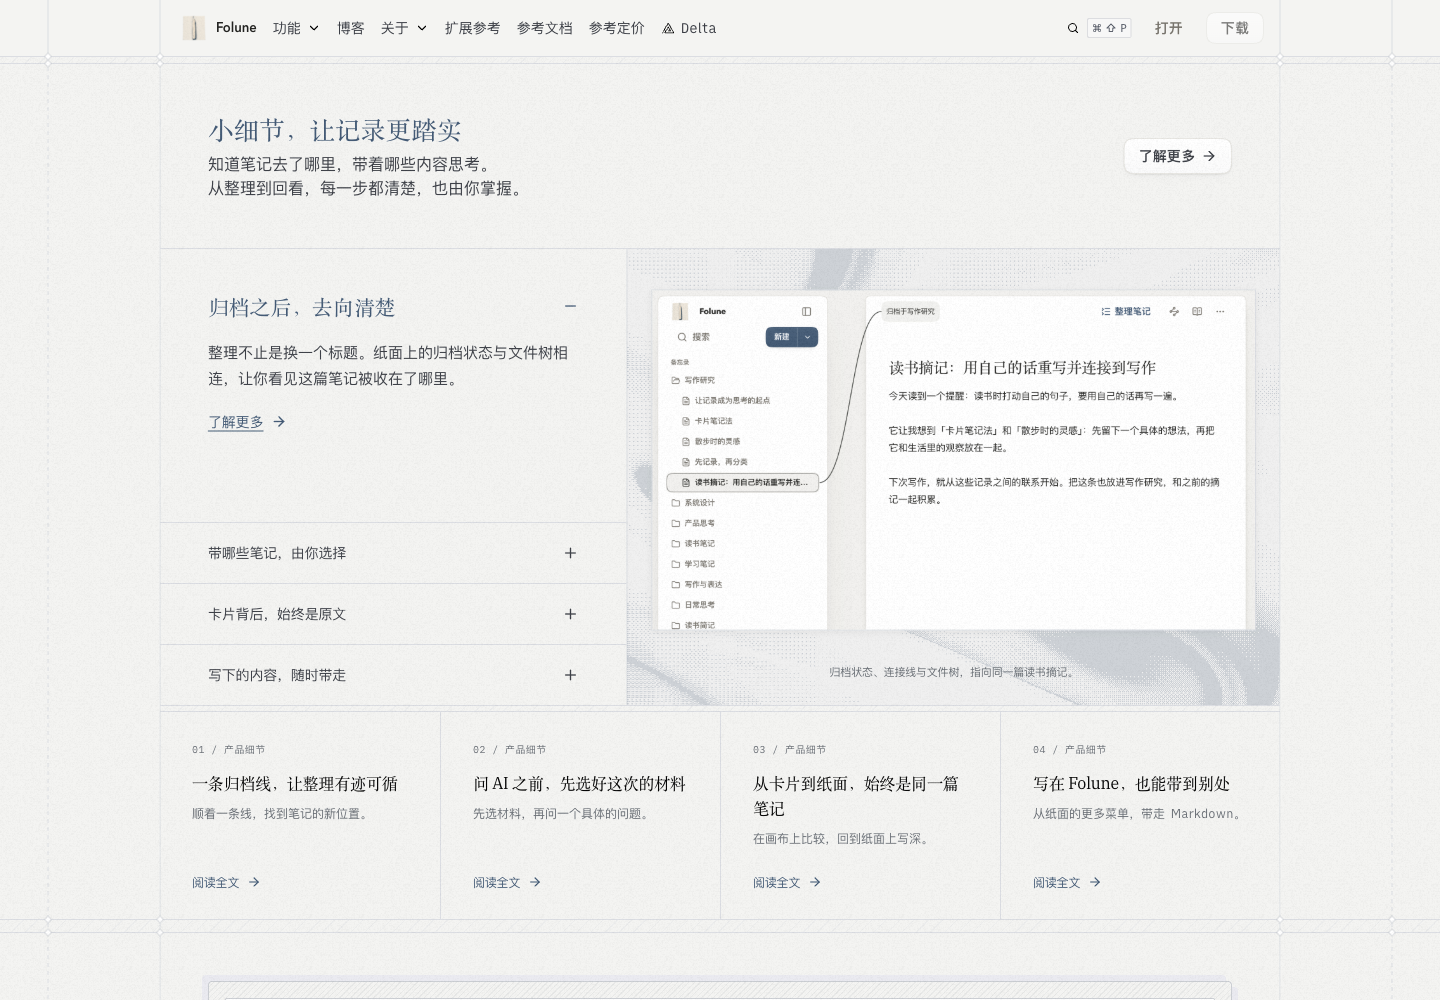
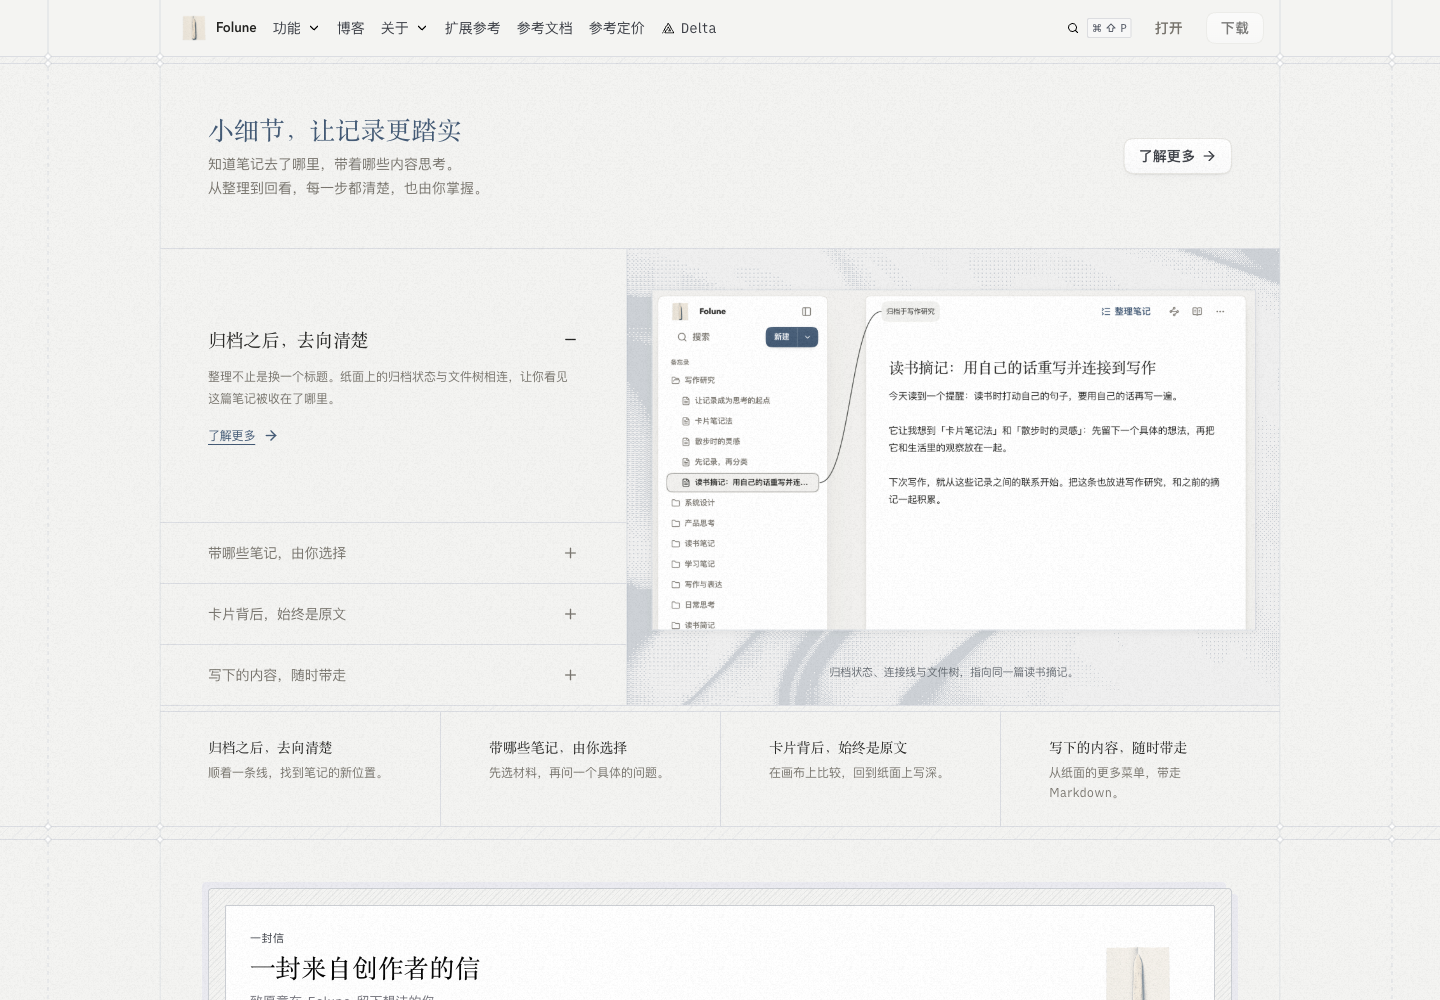
fix(landing): refine feature detail hierarchy and spacing
Use design system typography and muted descriptions, vertically center expanded content, and restore compact four-cell summaries without numbering or repeated blog links.

diff --git a/app/src/styles/landing.css b/app/src/styles/landing.css
@@ -1,6 +1,6 @@
 /**
  * [INPUT]: 依赖共享 Button/Blueprint DOM、四项真实功能细节、BrandMark 母图、创作者署名头像、页面私有参考字体与 Figma 素材、独立 Demo iframe 和 ShowcaseBackdrop
- * [OUTPUT]: 对外提供英文参考字体与 DS 中文回退的文字层级、共轴导轨、APP 外壳平滑轮廓、三处产品展示共用的矩形细点阵后景、功能细节展开与文章分栏、信纸、评价与页脚的响应式版面；仅 Landing 禁止纵向越界回弹，页尾止于 Footer
+ * [OUTPUT]: 对外提供英文参考字体与 DS 中文回退的文字层级、共轴导轨、APP 外壳平滑轮廓、三处产品展示共用的矩形细点阵后景、功能细节分级字号/垂直居中展开/紧凑摘要、信纸、评价与页脚的响应式版面；仅 Landing 禁止纵向越界回弹，页尾止于 Footer
  * [POS]: styles 的 Landing 局部样式；Footer 淡字位于细密斜纹之下，按钮材质与品牌墨蓝直接消费 DS，背景和纹理保留基线；功能区按参考稿使用 40px 卡片纵向留白与外扩 6px 虚线图片框
  * [PROTOCOL]: 变更时更新此头部，然后检查 CLAUDE.md
  */
@@ -136,52 +136,46 @@ html:has(.landing-blueprint),body:has(.landing-blueprint) { overscroll-behavior-
 /* ---- 功能细节：展开说明与实景图同源，移动端把图接在完整说明之后 ---- */
 .landing-feature-details .landing-section-heading { min-height:185px; }
 .landing-blueprint .landing-feature-details h2 { color:var(--landing-accent); }
+.landing-feature-details .landing-section-heading p { color:var(--muted-foreground); font-size:var(--type-ui); line-height:24px; }
 .landing-details-showcase { display:grid; grid-template-columns:5fr 7fr; min-height:456px; }
 .landing-details-accordion { align-self:stretch; display:flex; flex-direction:column; }
 .landing-details-item { border-bottom:1px solid var(--landing-border); }
 .landing-details-item:last-child { border-bottom:0; }
-.landing-details-item[data-active="true"] { flex:1; padding-top:24px; }
-.landing-details-item h3 button { display:flex; align-items:center; justify-content:space-between; gap:16px; width:100%; padding:18px 48px; border:0; border-radius:0; background:transparent; color:var(--landing-ink); text-align:left; font:14px/24px var(--landing-body); cursor:pointer; }
+.landing-details-item[data-active="true"] { flex:1; display:flex; flex-direction:column; justify-content:center; min-height:272px; padding-block:32px; }
+.landing-details-item h3 button { display:flex; align-items:center; justify-content:space-between; gap:16px; width:100%; padding:18px 48px; border:0; border-radius:0; background:transparent; color:var(--muted-foreground); text-align:left; font:var(--type-ui)/24px var(--landing-body); cursor:pointer; }
 .landing-details-item h3 button:hover { color:var(--landing-accent); }
 .landing-details-item h3 button:focus-visible { outline-offset:-5px; }
 .landing-details-item h3 button svg { flex:none; }
-.landing-details-item[data-active="true"] h3 button { color:var(--landing-accent); font:400 21px/30px var(--landing-heading); cursor:default; }
-.landing-details-body { padding:0 48px 32px; }
-.landing-details-body p { font-size:15px; line-height:26px; text-wrap:pretty; }
-.landing-blueprint .landing-details-body a { display:inline-flex; align-items:center; gap:8px; margin-top:20px; color:var(--landing-accent); font-size:14px; text-decoration:underline; text-underline-offset:4px; }
+.landing-details-item[data-active="true"] h3 button { padding-block:0; color:var(--foreground); font:400 var(--type-heading)/28px var(--landing-heading); cursor:default; }
+.landing-details-body { padding:0 48px; }
+.landing-details-body p { margin-top:12px; color:var(--muted-foreground); font-size:var(--type-label); line-height:22px; text-wrap:pretty; }
+.landing-blueprint .landing-details-body a { display:inline-flex; align-items:center; gap:8px; margin-top:16px; color:var(--landing-accent); font-size:var(--type-label); line-height:20px; text-decoration:underline; text-underline-offset:4px; }
 .landing-details-media { position:relative; isolation:isolate; display:flex; flex-direction:column; min-width:0; padding:24px; border-left:1px solid var(--landing-border); overflow:hidden; background:color-mix(in srgb,var(--primary) 3%,var(--landing-bg)); }
 .landing-details-image { position:relative; z-index:1; flex:1; display:grid; place-items:center; min-height:340px; }
 .landing-details-image img { display:block; width:auto; max-width:100%; max-height:380px; height:auto; border:1px solid var(--landing-border); box-shadow:0 2px 7px #0000000d; }
 .landing-details-media figcaption { position:relative; z-index:1; margin-top:16px; color:#656c73; font-size:11px; line-height:18px; text-align:center; text-wrap:pretty; }
-.landing-details-guides { display:grid; grid-template-columns:repeat(4,minmax(0,1fr)); }
-.landing-details-guides>a { display:flex; flex-direction:column; padding:28px 32px; }
-.landing-details-guides>a+a { border-left:1px solid var(--landing-border); }
-.landing-details-number { color:#656c73; font:10px/18px Landing Mono,var(--font-sans); letter-spacing:.04em; }
-.landing-blueprint .landing-details-guides h3 { margin-top:12px; font-size:16px; line-height:25px; text-wrap:pretty; }
-.landing-details-guides p { margin-top:8px; font-size:12px; line-height:21px; color:#656c73; text-wrap:pretty; }
-.landing-details-read { display:flex; align-items:center; gap:8px; padding-top:24px; margin-top:auto; color:var(--landing-accent); font-size:12px; }
-.landing-details-guides>a:hover h3 { color:var(--landing-accent); }
-.landing-details-guides>a:focus-visible { outline-offset:-5px; }
+.landing-details-summary { display:grid; grid-template-columns:repeat(4,minmax(0,1fr)); }
+.landing-details-summary article { padding:24px 48px; }
+.landing-details-summary article+article { border-left:1px solid var(--landing-border); }
+.landing-blueprint .landing-details-summary h3 { color:var(--foreground); font-size:var(--type-ui); line-height:22px; text-wrap:pretty; }
+.landing-details-summary p { margin-top:4px; color:var(--muted-foreground); font-size:var(--type-label); line-height:20px; text-wrap:pretty; }
 @media (max-width:1100px) {
   .landing-details-item h3 button { padding-inline:32px; }
   .landing-details-body { padding-inline:32px; }
-  .landing-details-guides>a { padding:24px; }
+  .landing-details-summary article { padding:24px; }
 }
 @media (max-width:767px) {
   .landing-feature-details .landing-section-heading { min-height:0; }
   .landing-details-showcase { grid-template-columns:1fr; }
   .landing-details-item h3 button { padding:16px 24px; }
-  .landing-details-item[data-active="true"] { padding-top:12px; }
-  .landing-details-item[data-active="true"] h3 button { font-size:20px; }
-  .landing-details-body { padding:0 24px 28px; }
-  .landing-details-body p { font-size:14px; line-height:25px; }
+  .landing-details-item[data-active="true"] { min-height:248px; }
+  .landing-details-body { padding-inline:24px; }
   .landing-details-media { border-left:0; border-top:1px solid var(--landing-border); padding:20px; }
   .landing-details-image { min-height:240px; }
   .landing-details-image img { max-height:320px; }
-  .landing-details-guides { grid-template-columns:repeat(2,minmax(0,1fr)); }
-  .landing-details-guides>a { padding:24px 20px; }
-  .landing-details-guides>a:nth-child(3) { border-left:0; }
-  .landing-details-guides>a:nth-child(n+3) { border-top:1px solid var(--landing-border); }
+  .landing-details-summary { grid-template-columns:repeat(2,minmax(0,1fr)); }
+  .landing-details-summary article:nth-child(3) { border-left:0; }
+  .landing-details-summary article:nth-child(n+3) { border-top:1px solid var(--landing-border); }
 }
 /* 信纸：完整错位纸层承载外影，内纸独立承载内容，避免边角拼缝。 */
 .landing-letter-section { padding:48px; }

diff --git a/app/src/widgets/LandingFeatureDetails.tsx b/app/src/widgets/LandingFeatureDetails.tsx
@@ -1,6 +1,6 @@
 /**
  * [INPUT]: 依赖细节与文章同源数据、Router 查询/历史状态、共享 Collapse、语义图标和 ShowcaseBackdrop
- * [OUTPUT]: 对外提供四项可展开的功能细节、对应实景图与四个完整文章入口
+ * [OUTPUT]: 对外提供四项垂直居中的功能细节、对应实景图、随选中项切换的文章入口与紧凑四格摘要
  * [POS]: widgets 的第 11 个 Landing 区块；query 保存当前项，替换历史且保持滚动，博客沿既有 fromBlog 协议返回
  * [PROTOCOL]: 变更时更新此头部，然后检查 CLAUDE.md
  */
@@ -58,11 +58,10 @@ export function LandingFeatureDetails() {
       </figure>
     </div>
     <BlueprintDivider compact />
-    <nav className="landing-details-guides" aria-label="功能细节使用指南">
-      {detailStories.map((item, i) => <Link key={item.id} to={`/blog/${item.post.slug}`} state={{ fromBlog: true }}>
-        <span className="landing-details-number">0{i + 1} / {item.post.category}</span>
-        <h3>{item.post.title}</h3><p>{item.takeaway}</p><span className="landing-details-read">阅读全文 <ArrowRightIcon size={14} /></span>
-      </Link>)}
-    </nav>
+    <div className="landing-details-summary">
+      {detailStories.map(item => <article key={item.id}>
+        <h3>{item.title}</h3><p>{item.takeaway}</p>
+      </article>)}
+    </div>
   </section>;
 }

diff --git a/app/src/styles/CLAUDE.md b/app/src/styles/CLAUDE.md
@@ -10,7 +10,7 @@ motion.css: 通用 Motion 消费与验收布局层，Panel 内容窗口裁剪顶
 .gitkeep: 保留产品样式目录
 CLAUDE.md: 记录样式层职责与文档协议
 global-base.css: 全局浏览器基础层，消费 index.css 语义 token，收口文档根、表单字体、选择色、滚动条、指针与 reduced-motion 兜底
-landing.css: Landing 原布局/背景与响应式排版；功能细节独立使用 5:7 展开/实景图结构与四列文章入口，窄屏上下排列、文章双列；英文保留参考字体，中文回退 DS 宋体/黑体，按钮直接继承 DS 材质、16px 平滑曲率和按压状态，Footer 与主按钮共用 --primary 墨蓝；分别定义衬线标题、正文、代码及注释的字号/行高，信纸保留错位纸影、斜线框、品牌母图和白底，以每行约 38 汉字的正文列（540px @14px，落在 WCAG CJK 的 40 字上限内，与 Laper 参考稿同值）、分段留白与 32px 圆形头像承载创作者长信；评价采用六个深色字母机构标识与字标、两侧短评与中间方格纸长卡，窄屏长卡置顶；Footer 恢复参考基线 388.72px 最小栏高，采用品牌宽列与四组长短错落导航，链接间距 16px，品牌署名上下分置，窄屏品牌通栏、导航双列，Folune 使用 Avenir Next，8% 白色描边位于 4px 周期、16% 白色的细密斜纹下方；共轴导轨和首页纵向越界限制独立于排版 功能区标题随中文内容自然定高，图片卡片纵向 40px、横向 48px；五张图共用 1px 实线内框和外扩 6px 的虚线轮廓，轮廓不挤占图像或网格。
+landing.css: Landing 原布局/背景与响应式排版；功能细节独立使用 5:7 展开/实景图结构，选中项内容垂直居中；Header 说明 14px、展开标题/正文 18/12px、底部标题/说明 14/12px 均消费 DS token，次级文字用 muted-foreground；底部紧凑四格仅文字，窄屏上下展示、摘要双列；英文保留参考字体，中文回退 DS 宋体/黑体，按钮直接继承 DS 材质、16px 平滑曲率和按压状态，Footer 与主按钮共用 --primary 墨蓝；分别定义衬线标题、正文、代码及注释的字号/行高，信纸保留错位纸影、斜线框、品牌母图和白底，以每行约 38 汉字的正文列（540px @14px，落在 WCAG CJK 的 40 字上限内，与 Laper 参考稿同值）、分段留白与 32px 圆形头像承载创作者长信；评价采用六个深色字母机构标识与字标、两侧短评与中间方格纸长卡，窄屏长卡置顶；Footer 恢复参考基线 388.72px 最小栏高，采用品牌宽列与四组长短错落导航，链接间距 16px，品牌署名上下分置，窄屏品牌通栏、导航双列，Folune 使用 Avenir Next，8% 白色描边位于 4px 周期、16% 白色的细密斜纹下方；共轴导轨和首页纵向越界限制独立于排版 功能区标题随中文内容自然定高，图片卡片纵向 40px、横向 48px；五张图共用 1px 实线内框和外扩 6px 的虚线轮廓，轮廓不挤占图像或网格。
 note-paper.css: 共享纸面视觉层，唯一实现 .note-paper 与 thumbnail/reader 两个 variant 的纸边、曲率、Editorial 标题与摘录收尾，并声明 .paper/.paper-body 两个视图过渡分类（壳可拉伸、正文不可，节奏见 knowledge-canvas.css）；thumbnail 用固定 16px 排版基准匹配画布的像素几何，标题/正文/内边距/渐隐范围只随画布缩放，不受嵌入页根字号二次缩小；thumbnail 让正文写到纸底后以五段文字透明度连续衰减，并叠加完全无填色的渐进背景失焦，禁止不透明覆盖层形成横向色带，reader 按 ISO 216 的 1:√2 立成 A4 开本（宽取 40rem/视口高/视口宽三者最紧者，高由比例导出），消费 --paper-float-shadow 的渐变柔影，纸面静止而正文在纸内滚动、页边固定为纸宽 8%；Canvas 卡片与预览共用，禁止任何组件复制近似 Paper 样式
 workspace.css: AI 历史与对话共享一条顶栏，列表无需重复标题留白； 账户/外观、订阅、Paper First Stage、48/32 侧栏创建 split、浮动 Panel 与树/命令/AI/Trash 布局。主 Paper 开本高度优先：`--paper-opening-height` 取两条 Panel 内缩线之间的可用高度，纸宽按 7:9 反算（无宽度上限，横向装不下时 `min()` 交给可用宽度），高度由同一 grid area 的无内容比例基线给出，真实正文与基线取最大值所以长文自然长纸；舞台上下留白必须正好等于 inset，否则空纸就会被第二套边距顶出视口而滚动；那块基线必须 `min-width: 0`，否则它把行高按 7/9 反算成自己的 min-content 宽度贡献，唯一那条列轨道随纸变长而变宽，正文与顶栏一起被推到纸的右侧之外。Toolbar 在 Paper 内 sticky 且 `top` 是 `--workspace-panel-inset` 而不是 0——它与左右 Panel 表头共用同一条横线，钉到浏览器顶边就爬出了纸面。静止透明；凝结区间由纸上的 `--toolbar-condense-from/to` 与 `--toolbar-title-from` 一处给出，被动画的量只有一个：注册为 `<number>` 的 `--toolbar-condense-progress`，原生 scroll timeline 以显式 `linear` 与 `animation-duration: auto`（进度型时间线忽略时间 duration，写毫秒数只会骗读代码的人）在 24–80px 把它从 0 推到 1，实底高度、hairline 浓度、软边高度、模糊半径与遮罩强度全部在消费点乘它算出来——「同一个 scroll progress 连续驱动」因此是结构事实，不是两条时间线恰好对齐；实底锚在顶栏**下沿**并向上长满 `--toolbar-condense-cover`（`--panel-header-height` + `--workspace-panel-inset`）——sticky 停在内缩线上，顶栏上方那条 inset 一滚就成了纸的内部，正文从中穿过并被滚动容器上边缘切断，所以凝结要盖的是顶栏加那条 inset；下沿锚定同时让另一件事变成结构事实：实底下边界恒等于顶栏下边界，于是软边的 `top` 是常量 `100%`（真空无处可生）。顶栏不画任何底边线，铺开的只是同一个 `--paper-surface`。软边从那条恒定边界长到最多 `--toolbar-edge-max` 16px，`::after` 里纸色梯度回答「被盖掉多少」、遮罩回答「模糊到哪儿为止」，遮罩比纸色多留一小段尾巴，于是正文先变软再被纸吃掉而不是走到某条线上突然消失；纸色不透明那一端必须留在软边最顶上与实底严丝合缝，低于 100% 就会在 hairline 底下透出一行鬼影；两条梯度都用相对百分比，因此形状跟着那 16px 一起生长，模糊半径 `--toolbar-edge-blur` 6px 同乘进度所以进度 0 就是 `blur(0)`——顶栏静止时连一层模糊都不存在，不存在固定模糊带；标题晚 12px 起步、只淡入不位移，回顶沿同一路径融回；没有 scroll timeline 的浏览器挂一个高度为 `96px - inset` 的哨兵做一次 `data-condensed` 软切，软切也只切那一个进度，JS 里没有第二个阈值。动作槽位固定；顶栏 control 的 32px 高度只声明一次且不住在任何一个控件身上（`.app-main-toolbar .ds-button, .app-main-toolbar .archive-status`），因此整理、三枚图标与归档落点没有一个再自报身高，往这条顶栏加控件天生就已对齐；四个无标签图标（返回来路、进入 Canvas、阅读切换、更多）另有唯一一条只补正方形另一维的 32px 几何，于是容器、hit area 与那个 16px 图标共用同一个中心，圆角由 `.ds-button` 基类给出而不各自重申；三枚中性图标显式把 hover/active 表面改成 `interactive-hover`/`border` 并让归档落点补上同一份 `--press-scale` 原地收紧——ghost 基类给的是 `--muted`、落点给的是 `interactive-hover`，两个控件就挨着，「指向一个控件会怎样」不许有两个答案；品牌软色只属于整理，中性命令一个 primary 都不沾，时长与缩放全部留在 `.ds-button` 基类与唯一那份 press token 里；右侧命令区整理与图标簇相隔 12px，簇内相邻命令使用 4px gap，由 `.note-view-actions` 与 `.markdown-view-menu` 两条 gap 表达，视图组不再自带 margin，`.note-organize-button` 只覆盖 ghost 底座的前景/hover/active token 形成 Quiet Accent（静止那三项透明来自基类，因此这里一条都不重申，loading 实体来自 `.ds-button-loading`）；顶栏自身 `overflow: visible`（它要放得下垂下去的更多菜单，且 hidden 会让它成为 nearest 滚动容器、凝结时间线永远 inactive），需要裁剪的只有 `.app-main-toolbar-leading`，用 `clip` 而非 `hidden` 以免同样拦住标题淡入。层序在此显式声明：容器（浮动/常驻 Panel 60/80、Stage 角标 70）< Archive Cord fixed Overlay 84 < 弹层（85/90+），侧栏 header/footer 2 > 树 1 —— 三段各带 fill 常驻的 opacity 动画，都是 z-index: auto 的层叠上下文，交给 DOM 顺序就会让树吞掉新建菜单。Archive Cord 的全部视觉只在此定义且只有三条 path：settled 是接近 hairline 的 1px/0.42 实线（要能被正文压过去——随时抢眼的线是通知而不是上下文），fresh 靠 `pathLength=1` 归一化的自绘 + 一条极轻 flow 各播一次并以 `both` 停在 settled 终值（因此降档归 CSS fill state，不需要 timer，关系也不会因为时间流逝而消失），离屏只把线收细降调而绝不画箭头或中心圆点。emphasized 是一个跨三棵子树共享的状态，故用 `html:has()` 而不是 React state 表达：source、当前代表行与线本身任一被指向或聚焦，都提亮同一条线与同一行——靠状态同步只会多出一个可能与真实 hover 不一致的答案。代表行只拿一圈 Cord 同色的极淡 inset hairline（不用 Soft Ink 蓝底，那会与当前选中、拖放落点、搜索命中争语义；窄屏没有跨层线时它就是唯一的落点反馈），并用三条 selector 压过树行自己的 `box-shadow: none`。关闭与窄屏只降 opacity 而不 `display: none`——状态还在，重开即恢复。窄屏隐藏比例基线并按可用视口。纸壳/正文仍分属 .paper/.paper-body 视图过渡，Panel 开合不改变 Stage 几何
 workspaceLayout.test.ts: 工作区浮层 Sidebar 的 CSS 契约测试，锁定 Panel 开合状态不再写入父级网格轨道、Paper/Canvas 始终占据唯一全屏 Stage、容器 < 归档线 < 弹层与侧栏三段的显式层序，并保证 Canvas 对侧 Dock 在窄屏 backdrop 上方直接切换互斥 Panel，而标题留在遮罩下

diff --git a/app/src/widgets/CLAUDE.md b/app/src/widgets/CLAUDE.md
@@ -19,7 +19,7 @@ BlueprintFrame.tsx: Landing 纵向导轨容器；导航、1120px 正文与页脚
 BlueprintDivider.tsx: Landing 横向导轨；14px 分隔带上下两条边分别共置横线与菱形，flush 提供零高度边界，compact 保留 7px 内部分隔带而不添加参考中没有的节点
 AuthDialog.tsx: 复用 BrandMark 原图的登录/注册统一认证 Dialog，复用共享内凹 Input/PasswordInput 承载邮箱、双密码与显隐控制，并提供协议提示、六格 OTP 自动校验与 Google OAuth 入口
 LandingHero.tsx: 中文公告、居中 Hero、三列价值条与真实 UI 互动插槽；LandingActions 共用 DS 两字「打开」与两字待发布下载（全站同一动作同一词，2+2 等密度），auth query 交给 MarketingHeader 唯一认证弹窗；分区仍复用通栏 BlueprintDivider
-LandingFeatureDetails.tsx: 第 11 区块的四项展开说明、对应实景图与底部四列文章入口；复用 Collapse，detail query 保留选中项，切换替换历史但保留锚点/其他查询/滚动，博客沿 fromBlog 协议返回
+LandingFeatureDetails.tsx: 第 11 区块的四项垂直居中展开说明、对应实景图与底部紧凑四格摘要；标题区和展开正文保留文章入口，底部只含标题和说明；复用 Collapse，detail query 保留选中项，切换替换历史但保留锚点/其他查询/滚动，博客沿 fromBlog 协议返回
 landingDetailData.ts: 归档线、引用选择、同一份原文、Markdown 导出四项细节与完整指南；实景图与文章数据同源，BlogPost 仅类型依赖，不建立运行时反向导入
 LandingSections.tsx: 保留 Grid/Flex 分区与信纸骨架；功能区以真实整理/Canvas/Paper/@引用/正文搜索截图一一对应五项能力，两颗入口直达整理/画布博客并保留来路；补充自动保存、原文引用和 Markdown 导出。AI 分区保留 AiSplitFeature 参考图，功能细节交给 LandingFeatureDetails；评价机构和引语仍是版式占位，社区/扩展标明参考来源，创作者信件与其他分区独立保留
 LandingFooter.tsx: 共用 DS 墨蓝的品牌区与产品/资源/关于/连接四组导航；16 项预留入口（产品 2、资源 8、关于 3、连接 3）以 aria-disabled link 语义展示且不跳转，打开网页版保留博客来路并复用本地认证；品牌与入口置顶、作者与版权置底；保留 Folune 淡描边与细纹层序，不放 PNG，BlueprintFrame 延续导轨

diff --git a/app/docs/landing-refactor/CLAUDE.md b/app/docs/landing-refactor/CLAUDE.md
@@ -3,9 +3,9 @@
 
 成员清单
 details-content.md: 第 11 区块四项细节、真实截图来源、文章路由与返回/键盘/响应式验收记录
-details-desktop.png: 1440px 功能细节默认归档项与四列文章入口
-details-mobile.png: 390px 功能细节标题、展开项与实景图衔接
-details-mobile-guides.png: 390px 实景图与底部双列文章入口
+details-desktop.png: 1440px 功能细节的分级字号、垂直居中展开内容与紧凑四格摘要
+details-mobile.png: 首轮 390px 功能细节历史画面，早于字号/居中精修
+details-mobile-guides.png: 首轮 390px 实景图与双列文章入口历史画面，早于底部简化
 details-article-mobile.png: Markdown 指南在 390px 的正文、实景图与图注
 features-content.md: 五项功能选择、真实 APP 演示与截图裁切来源、配套文章/返回链路及本轮验证边界
 features-desktop.png: 五图内容替换后的桌面功能区验收截图
